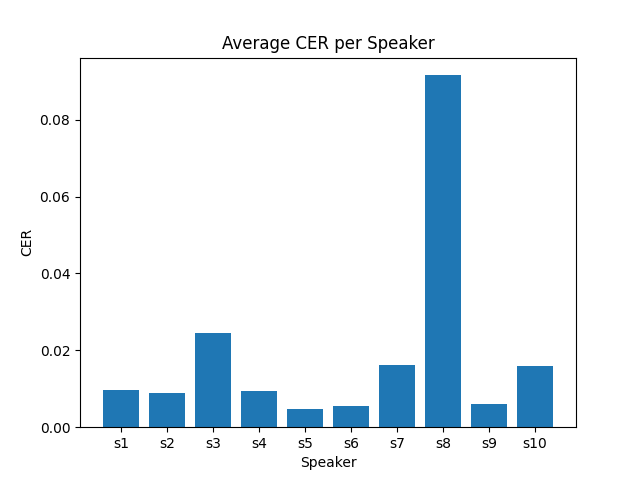
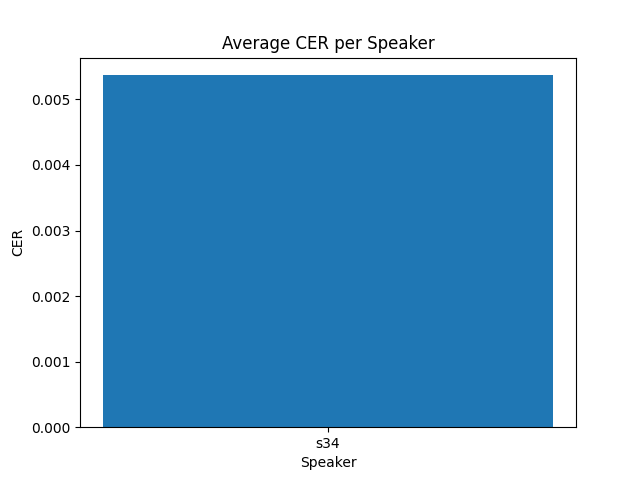
final changes with document

diff --git a/src/inference/validate.py b/src/inference/validate.py
@@ -9,61 +9,81 @@ from src.utils.validation_utils import compute_wer, compute_cer, parse_align_fil
 
 def validate_all_speakers(data_dir, checkpoint_path, results_dir):
     """
-    data_dir: "data/raw"
-    For each speaker s1..s10, compute average WER/CER.
-    Write a CSV row for each video file prediction.
-    Also store plots in results_dir.
+    For each speaker s1..s10 in data_dir, compute WER/CER for each video,
+    and write results (ref_text, hyp_text) to a CSV. Also plot average WER/CER.
     """
     os.makedirs(results_dir, exist_ok=True)
-    
+
     csv_path = os.path.join(results_dir, "validation_results.csv")
     header = ["speaker_id", "video", "ref_text", "hyp_text", "wer", "cer"]
-    # Open CSV in write mode (overwrite any previous file)
+
+    # Overwrite or create the CSV file, writing headers first
     with open(csv_path, "w", newline="", encoding="utf-8") as f:
         writer = csv.writer(f)
         writer.writerow(header)
-    
-    speakers = [f"s{i}" for i in range(1, 11)]
+
+    # Example: s1..s10
+    speakers = ["s34"]
     speaker_wer = []
     speaker_cer = []
-    
-    # We'll also keep per-speaker metrics in lists.
+
     for spk in speakers:
         print(f"Validating speaker: {spk}")
         video_dir = os.path.join(data_dir, spk, "videos")
         align_dir = os.path.join(data_dir, spk, "alignments")
-    
+
         mpg_files = glob.glob(os.path.join(video_dir, "*.mpg"))
         if not mpg_files:
             print(f"No .mpg files for {spk}, skipping.")
-            speaker_wer.append(0)
-            speaker_cer.append(0)
+            speaker_wer.append(0.0)
+            speaker_cer.append(0.0)
             continue
-        
+
         wer_list = []
         cer_list = []
-    
+
         for video_path in mpg_files:
             video_name = os.path.splitext(os.path.basename(video_path))[0]
             align_path = os.path.join(align_dir, f"{video_name}.align")
             if not os.path.exists(align_path):
                 print(f"Missing align file for {video_name}, skipping.")
                 continue
-            
-            # Parse reference text from alignment file
+
+            # 1) Parse reference text
             ref_text = parse_align_file(align_path)
-    
-            # Predict using the model
+
+            # 2) Get hypothesis from predict_lip_reading
             hyp_text = predict_lip_reading(video_path, checkpoint_path)
-    
-            # Compute WER and CER
+
+            # If hyp_text is a tuple, we only want the final prediction as a string
+            # e.g. (greedy_pred, fused_pred). We assume the second element is final:
+            if isinstance(hyp_text, tuple):
+                # If second element is a list of words, join them
+                if len(hyp_text) > 1:
+                    if isinstance(hyp_text[1], list):
+                        hyp_text = " ".join(hyp_text[1])
+                    else:
+                        hyp_text = str(hyp_text[1])
+                else:
+                    # fallback if only one element
+                    if isinstance(hyp_text[0], list):
+                        hyp_text = " ".join(hyp_text[0])
+                    else:
+                        hyp_text = str(hyp_text[0])
+            elif isinstance(hyp_text, list):
+                # If we got a list of words
+                hyp_text = " ".join(hyp_text)
+            else:
+                # It's presumably already a string
+                hyp_text = str(hyp_text)
+
+            # 3) Compute WER/CER
             wer_val = compute_wer(ref_text, hyp_text)
             cer_val = compute_cer(ref_text, hyp_text)
-    
             wer_list.append(wer_val)
             cer_list.append(cer_val)
-    
-            # Write result for this video to CSV (append mode)
+
+            # 4) Write CSV row
             with open(csv_path, "a", newline="", encoding="utf-8") as f:
                 writer = csv.writer(f)
                 writer.writerow([
@@ -74,19 +94,20 @@ def validate_all_speakers(data_dir, checkpoint_path, results_dir):
                     f"{wer_val:.4f}",
                     f"{cer_val:.4f}"
                 ])
+
             print(f"Processed {video_name}: WER={wer_val:.4f}, CER={cer_val:.4f}")
-    
-        # Compute speaker-level averages
-        avg_wer = np.mean(wer_list) if wer_list else 0
-        avg_cer = np.mean(cer_list) if cer_list else 0
+
+        # Speaker-level averages
+        avg_wer = np.mean(wer_list) if wer_list else 0.0
+        avg_cer = np.mean(cer_list) if cer_list else 0.0
         speaker_wer.append(avg_wer)
         speaker_cer.append(avg_cer)
-    
+
     print(f"Validation results CSV saved to: {csv_path}")
-    
-    # Now plot average WER/CER for each speaker
+
+    # Plot average WER/CER across speakers
     x_ticks = range(len(speakers))
-    
+
     # WER Plot
     plt.figure()
     plt.bar(x_ticks, speaker_wer)
@@ -98,7 +119,7 @@ def validate_all_speakers(data_dir, checkpoint_path, results_dir):
     plt.savefig(wer_plot_path)
     plt.close()
     print(f"WER plot saved to {wer_plot_path}")
-    
+
     # CER Plot
     plt.figure()
     plt.bar(x_ticks, speaker_cer)
@@ -110,7 +131,7 @@ def validate_all_speakers(data_dir, checkpoint_path, results_dir):
     plt.savefig(cer_plot_path)
     plt.close()
     print(f"CER plot saved to {cer_plot_path}")
-    
+
 if __name__ == "__main__":
     import argparse
     parser = argparse.ArgumentParser(description="Validate on all speakers and compute WER/CER.")
@@ -119,5 +140,5 @@ if __name__ == "__main__":
                         help="Path to model checkpoint.")
     parser.add_argument("--results_dir", type=str, default="results", help="Directory to store plots and CSV.")
     args = parser.parse_args()
-    
+
     validate_all_speakers(args.data_dir, args.checkpoint_path, args.results_dir)

diff --git a/src/utils/validation_utils.py b/src/utils/validation_utils.py
@@ -8,9 +8,9 @@ def parse_align_file(align_path):
             parts = line.strip().split()
             if len(parts) == 3:
                 token = parts[2]
-                if token not in ["sil", "sp"]:  # ignoring silence tokens
-                    words.append(token)
-    # Return joined words as reference text
+                if token.lower() in ["sil", "sp"]:  # ignoring silence tokens
+                    continue
+                words.append(token)
     return " ".join(words)
 
 def levenshtein_distance(seq1, seq2):
@@ -19,7 +19,6 @@ def levenshtein_distance(seq1, seq2):
     seq1, seq2: lists of tokens (words or chars)
     """
     m, n = len(seq1), len(seq2)
-    # dp[i][j] = edit distance between seq1[:i] and seq2[:j]
     dp = [[0]*(n+1) for _ in range(m+1)]
 
     for i in range(m+1):
@@ -42,8 +41,27 @@ def levenshtein_distance(seq1, seq2):
 def compute_wer(ref_text, hyp_text):
     """
     WER = (Levenshtein distance on word level) / (# words in reference)
-    ref_text, hyp_text: space-separated strings
+    ref_text, hyp_text: can be strings or lists/tuples of tokens.
+    If hyp_text is a tuple, we select the second element (assumed to be LM-fused output).
     """
+    # Ensure ref_text is a string.
+    if not isinstance(ref_text, str):
+        if isinstance(ref_text, (list, tuple)):
+            ref_text = " ".join(ref_text)
+        else:
+            ref_text = str(ref_text)
+    # Process hyp_text.
+    if not isinstance(hyp_text, str):
+        if isinstance(hyp_text, tuple):
+            # Choose the second element if available; otherwise, the first.
+            if len(hyp_text) > 1:
+                hyp_text = " ".join(hyp_text[1])
+            else:
+                hyp_text = " ".join(hyp_text[0])
+        elif isinstance(hyp_text, list):
+            hyp_text = " ".join(hyp_text)
+        else:
+            hyp_text = str(hyp_text)
     ref_words = ref_text.split()
     hyp_words = hyp_text.split()
     distance = levenshtein_distance(ref_words, hyp_words)
@@ -54,9 +72,24 @@ def compute_wer(ref_text, hyp_text):
 def compute_cer(ref_text, hyp_text):
     """
     CER = (Levenshtein distance on character level) / (# chars in reference)
-    ref_text, hyp_text: strings
-    - remove spaces if you want literal character
+    ref_text, hyp_text: can be strings or lists of tokens (will be joined).
+    Spaces are removed before computing CER.
     """
+    if not isinstance(ref_text, str):
+        if isinstance(ref_text, (list, tuple)):
+            ref_text = " ".join(ref_text)
+        else:
+            ref_text = str(ref_text)
+    if not isinstance(hyp_text, str):
+        if isinstance(hyp_text, tuple):
+            if len(hyp_text) > 1:
+                hyp_text = " ".join(hyp_text[1])
+            else:
+                hyp_text = " ".join(hyp_text[0])
+        elif isinstance(hyp_text, list):
+            hyp_text = " ".join(hyp_text)
+        else:
+            hyp_text = str(hyp_text)
     ref_chars = ref_text.replace(" ", "")
     hyp_chars = hyp_text.replace(" ", "")
     distance = levenshtein_distance(list(ref_chars), list(hyp_chars))

diff --git a/src/inference/predict_with_translation.py b/src/inference/predict_with_translation.py
@@ -184,10 +184,10 @@ if __name__ == "__main__":
         from transformers import MBart50TokenizerFast, MBartForConditionalGeneration
         translator_model_name = "facebook/mbart-large-50-many-to-many-mmt"
         try:
-            tokenizer = MBart50TokenizerFast.from_pretrained(translator_model_name, src_lang="en_XX", tgt_lang="fr_XX" if args.target_lang.lower()=="fr" else "es_XX")
+            tokenizer = MBart50TokenizerFast.from_pretrained(translator_model_name, src_lang="en_XX", tgt_lang="fr_XX" if args.target_lang.lower()=="fr" else "es_XX",model_max_length=100)
         except Exception as e:
             from transformers import MBartTokenizer
-            tokenizer = MBartTokenizer.from_pretrained(translator_model_name, src_lang="en_XX", tgt_lang="fr_XX" if args.target_lang.lower()=="fr" else "es_XX")
+            tokenizer = MBartTokenizer.from_pretrained(translator_model_name, src_lang="en_XX", tgt_lang="fr_XX" if args.target_lang.lower()=="fr" else "es_XX",model_max_length=100)
             print(f"Error loading fast tokenizer: {e}.")
             exit(1)
         try:

diff --git a/README.md b/README.md
@@ -1,0 +1,115 @@
+# Visual Speech Recognition and Multilingual Translation Powered by NLP
+
+This repository implements a deep-learning pipeline to recognize words/sentences from silent video of a speaker’s lips. We combine a 3D CNN (ResNet), a CTC-based approach, and optional language model (KenLM) fusion for lip reading.
+
+![Project Banner](diagrams/overall-lipreading.drawio.png)
+
+## Table of Contents
+- [Overview](#overview)
+- [Dataset](#dataset)
+- [Preprocessing](#preprocessing)
+- [Model & Architecture](#model--architecture)
+- [Language Model Fusion](#language-model-fusion)
+- [Commands & Usage](#commands--usage)
+- [References](#references)
+
+## Overview
+This project aims to perform automatic lip reading on the GRID Corpus by:
+
+1. Extracting lip regions from video using dlib for face detection and extracting lip region.
+2. Preprocessing frames into a consistent shape (64×128).
+3. Feeding them into a 3D CNN + CTC-based pipeline for sequence modeling.
+4. Optionally integrating a language model (KenLM) for shallow fusion.
+5. Finally using mBart50 for language translation.
+
+The end result is predicted words from silent video frames, plus optional French or Spanish translations.
+
+## Dataset
+We use the GRID corpus, which contains short command-like phrases from multiple speakers:
+
+```
+data/raw/
+ ├── s1/
+ │    ├── videos/*.mpg
+ │    └── alignments/*.align
+ ├── s2/
+ ├── ...
+ └── s34/
+```
+
+- **Video Files**: .mpg format.
+- **Align Files**: Each .align has start/end times and tokens
+    ```
+    0 23750 sil
+    23750 29500 bin
+    29500 34000 blue
+    34000 35500 at
+    35500 41000 f
+    41000 47250 two
+    47250 53000 now
+    53000 74500 sil
+    ```
+    We skip `sil` for silence.
+
+## Preprocessing
+- **Frame Extraction**: We read each .mpg video at 25 FPS.
+- **Lip Detection/Cropping**: Use dlib to detect mouth region and crop each frame to 32×64.
+- **Normalization**: Convert to grayscale for 3D CNN input.
+- **Saving**: We store preprocessed frames as .npy and then used for the training scripts.
+
+## Model & Architecture
+### Lip Reading Model
+- **3D CNN (ResNet18)**: Extract spatio-temporal features from lip regions.
+- **Transformer / CTC**:
+    - 3D ResNet + Transformer (encoder-only) with CTC.
+- **Positional Encoding**
+    Since the **Transformer** requires positional information for each time step, we employ a **sinusoidal positional encoding** as defined in the original Transformer paper. This encoding is added to the feature vectors along the time dimension, enabling the model to learn temporal ordering **without** requiring recurrent connections. 
+    In particular:
+        - We generate a fixed positional matrix (size = `max_len × d_model`) of sine/cosine patterns.
+        - We **add** this matrix to the 3D ResNet’s output embeddings before sending them to the Transformer encoder.
+        - This ensures the model can distinguish features from earlier frames vs. later frames in the sequence.
+
+### Optional Language Model
+- **KenLM**: n-gram LM for shallow fusion.
+- **MBart**: For translation from English to French/Spanish.
+
+## Language Model Fusion
+If you want to boost the lip reading accuracy or translate the final text:
+
+### KenLM (Shallow Fusion)
+- During decoding, combine CTC log probabilities + alpha × LM log probabilities.
+- `combined_score = ctc_score + alpha * lm_score`.
+
+### MBart Translation
+- For final text translation to FR or ES, use an MBart model from Hugging Face.
+
+## Commands & Usage
+### 1. Preprocessing
+```sh
+python -m src.preprocessing.save_numpy \
+        --data_dir data/raw \
+        --output_dir data/processed \
+        --resize 32 64
+```
+Reads videos from `data/raw/sX/videos`, detects lips, resizes to 32×64, saves .npy.
+
+### 2. Training
+```sh
+python -m src.training.train \
+        --data_dir data/processed \
+        --checkpoint_dir checkpoints \
+        --epochs 50
+```
+Trains the lip reading model, saving checkpoints to `checkpoints/`.
+
+### 3. Inference (LM Fusion + Translation)
+```sh
+python -m src.inference.predict_with_translation \
+        --video_path data/raw/s1/videos/bbaf2n.mpg \
+        --checkpoint checkpoints/epoch_50.pth \
+        --kenlm_model 3gram.bin \
+        --beam_size 3 \
+        --alpha 0.1 \
+        --target_lang fr
+```
+Uses KenLM shallow fusion in beam search, then translates to French.
